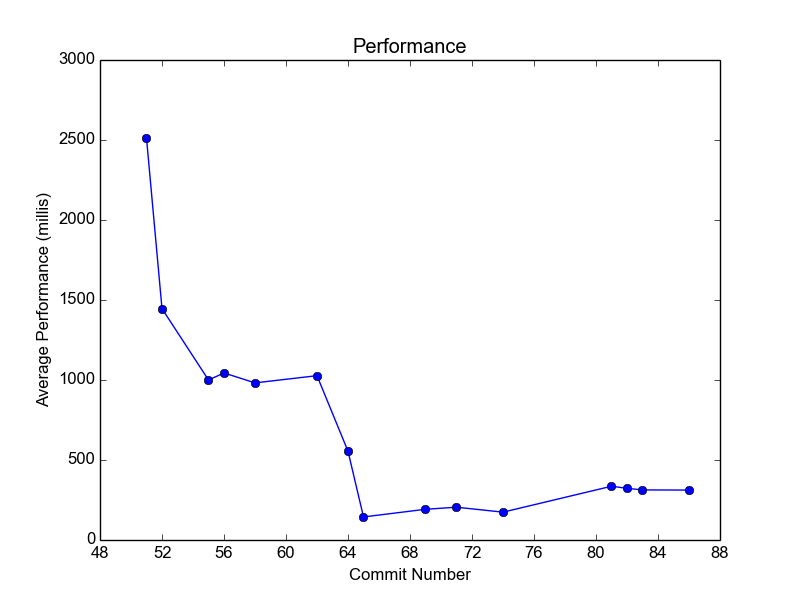
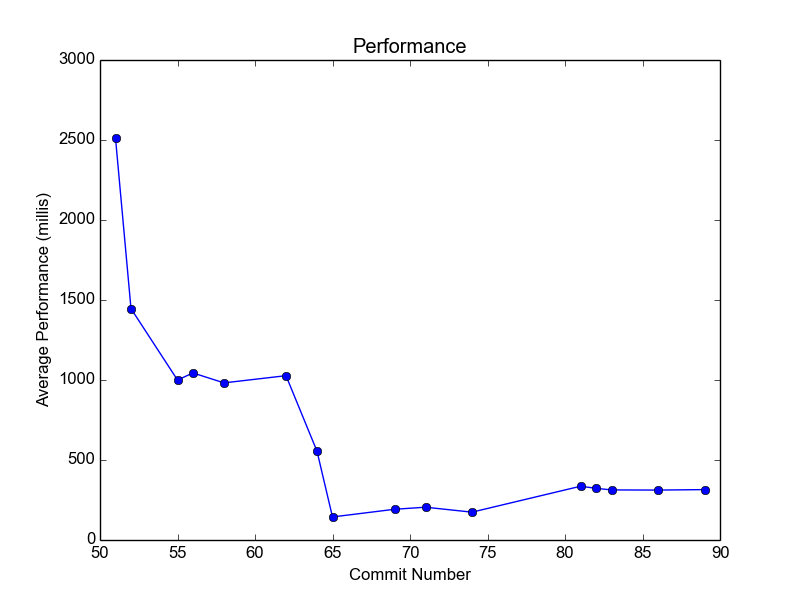
Cleaned up a couple of comments, and split treePolicy into two separate functions, depending on whether we want superko detection or not

diff --git a/uct.c b/uct.c
@@ -13,7 +13,7 @@ UctNode *createRootUctNode(State *state, HashTable *hashTable) {
 	root->terminal = 0;  // Should never be terminal itself
 	root->parent = NULL;  // No parent
 	
-	Moves *moves = getMoves(state, hashTable);
+	Moves *moves = getMoves(state, hashTable);  // If hashTable is NULL, getMoves will ignore
 	setChildren(root, moves, state);
 	destroyMoves(moves);
 
@@ -87,8 +87,15 @@ int uctSearch(State *state, int rollouts, int lengthOfGame, HashTable *hashTable
 	UctNode *root = createRootUctNode(state, hashTable);
 	int rootTurn = state->turn;
 	for (int i = 0; i < rollouts; i++) {
-		State *copy = copyState(state);  // Still need to copy the hashBuckets separately ^^^^
-		UctNode *v = treePolicy(copy, root, hashTable);
+		State *copy = copyState(state);
+
+		UctNode *v = NULL;
+		if (hashTable != NULL) {
+			v = treePolicy(copy, root, hashTable);
+		} else {
+			v = treePolicyNoHashing(copy, root);
+		}
+
 		double reward = defaultPolicy(rootTurn, copy, lengthOfGame, v);
 		backupNegamax(v, reward);
 		destroyState(copy);
@@ -107,29 +114,22 @@ UctNode *treePolicy(State *state, UctNode *v, HashTable *hashTable) {
 	int index = -1;
 	int hashValuesLength = 0;
 
-	if (hashTable != NULL) {
-		hashValues = calloc(ESTIMATED_DEPTH, sizeof(HASHVALUETYPE));  // These are the hash values we'll need to delete
-		index = 0;
-		hashValuesLength = ESTIMATED_DEPTH;
-	}
+	hashValues = calloc(ESTIMATED_DEPTH, sizeof(HASHVALUETYPE));  // These are the hash values we'll need to delete
+	index = 0;
+	hashValuesLength = ESTIMATED_DEPTH;
 
 	while (!v->terminal) {  // Will stop when it finds a terminal node
 		if (v->childrenVisited < v->childrenCount) {  // I.e. not fully expanded
 			v = expand(state, v, hashTable);
 			makeMove(state, v->action, hashTable);
-			if (hashTable != NULL) {
-				hashValues[index++] = zobristHash(state);
-			}
+			hashValues[index++] = zobristHash(state);
 			break;
 		} else {
 			v = bestChild(v, UCT_CONSTANT);
 			makeMove(state, v->action, hashTable);
-			if (hashTable != NULL) {
-				hashValues[index++] = zobristHash(state);
-			}
+			hashValues[index++] = zobristHash(state);
 		}
 
-		// Don't need to check hashTable here, will always be false if it's NULL
 		if (index >= hashValuesLength) {
 			hashValuesLength *= 2;
 			hashValues = realloc(hashValues, hashValuesLength * sizeof(HASHVALUETYPE));
@@ -137,12 +137,26 @@ UctNode *treePolicy(State *state, UctNode *v, HashTable *hashTable) {
 	}
 
 	// Now deletes the hash values
-	if (hashTable != NULL) {
-		for (int i = 0; i < index; i++) {
-			deleteValueFromHashTable(hashTable, hashValues[i]);
-		}	
-		free(hashValues);
-		hashValues = NULL;
+	for (int i = 0; i < index; i++) {
+		deleteValueFromHashTable(hashTable, hashValues[i]);
+	}	
+	free(hashValues);
+	hashValues = NULL;
+
+	return v;
+}
+
+
+UctNode *treePolicyNoHashing(State *state, UctNode *v) {
+	while (!v->terminal) {  // Will stop when it finds a terminal node
+		if (v->childrenVisited < v->childrenCount) {  // I.e. not fully expanded
+			v = expand(state, v, NULL);
+			makeMove(state, v->action, NULL);
+			break;
+		} else {
+			v = bestChild(v, UCT_CONSTANT);
+			makeMove(state, v->action, NULL);
+		}
 	}
 
 	return v;
@@ -202,7 +216,7 @@ double calcReward(UctNode *parent, UctNode *child, double c) {
 	double reward = 0;
 	if (child->visitCount > 0) {  // I.e. if visited.
 		reward = ((double)(child->reward))/child->visitCount 
-					+ c*sqrt(log((double)parent->visitCount)/child->visitCount); // Might need *2 ^^^
+					+ c*sqrt(2*log((double)parent->visitCount)/child->visitCount); // Might need *2 ^^^
 	} else {
 		reward = INT_MIN;
 	}

diff --git a/uct.h b/uct.h
@@ -16,7 +16,7 @@
 
 #define ROOT_MOVE -2  // The move that the rootmove has
 
-#define UCT_CONSTANT 1.41 // This is the C_p=sqrt(2) term
+#define UCT_CONSTANT 0.707106781 // This is the C_p=1/sqrt(2) term
 
 #define ESTIMATED_DEPTH 16
 
@@ -51,8 +51,11 @@ void destroyUctNode(UctNode *v);
 // Returns the best move
 int uctSearch(State *state, int rollouts, int lengthOfGame, HashTable *hashTable);
 
-// Finds non-terminal node
+// Finds non-terminal node, with hashing
 UctNode *treePolicy(State *state, UctNode *v, HashTable *hashTable);
+
+// Finds non-terminal node, no hashing
+UctNode *treePolicyNoHashing(State *state, UctNode *v);
 
 // Creates new child node
 UctNode *expand(State *state, UctNode *v, HashTable *hashTable);

diff --git a/configParser.c b/configParser.c
@@ -12,7 +12,7 @@ Config *getDefaultConfig(void) {
 	config->trials = 5;  // The time trials
 	config->warmupTrials = 2;  // To warm up the cpu for the time trials
 	config->lengthOfGame = (int)(BOARD_SIZE * 1.1);  // This is a big problem, I don't really know ^^^
-	config->superko = 1;  // By default, we don't allow superko ^^^^
+	config->superko = 1;  // By default, we don't allow superko
 	config->hashBuckets = 1000;  // Meh, maybe.  Definitely a tradeoff of memory/speed
 
 	return config;

diff --git a/ergo.c b/ergo.c
@@ -1,7 +1,5 @@
 #include "ergo.h"
 
-// Allow zobrist file to be input ^^^
-
 int main(int argc, char **argv) {
 	if (argc <= 1) {
 		ERROR_PRINT("Must provide command line arguments (-h for help)");
